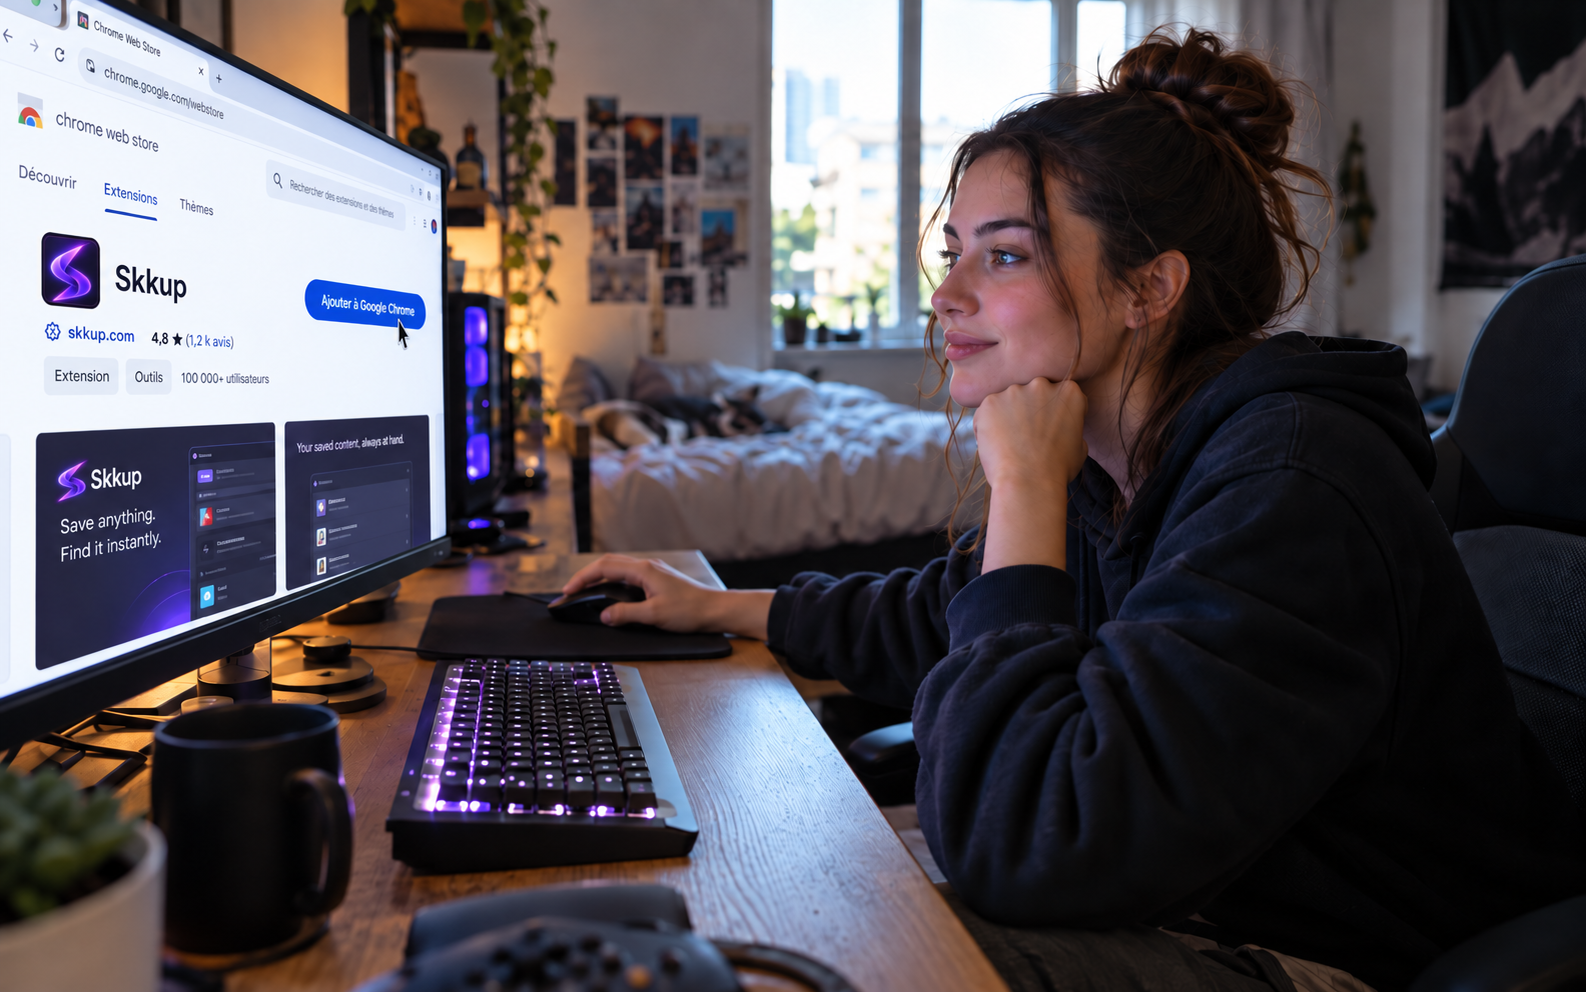
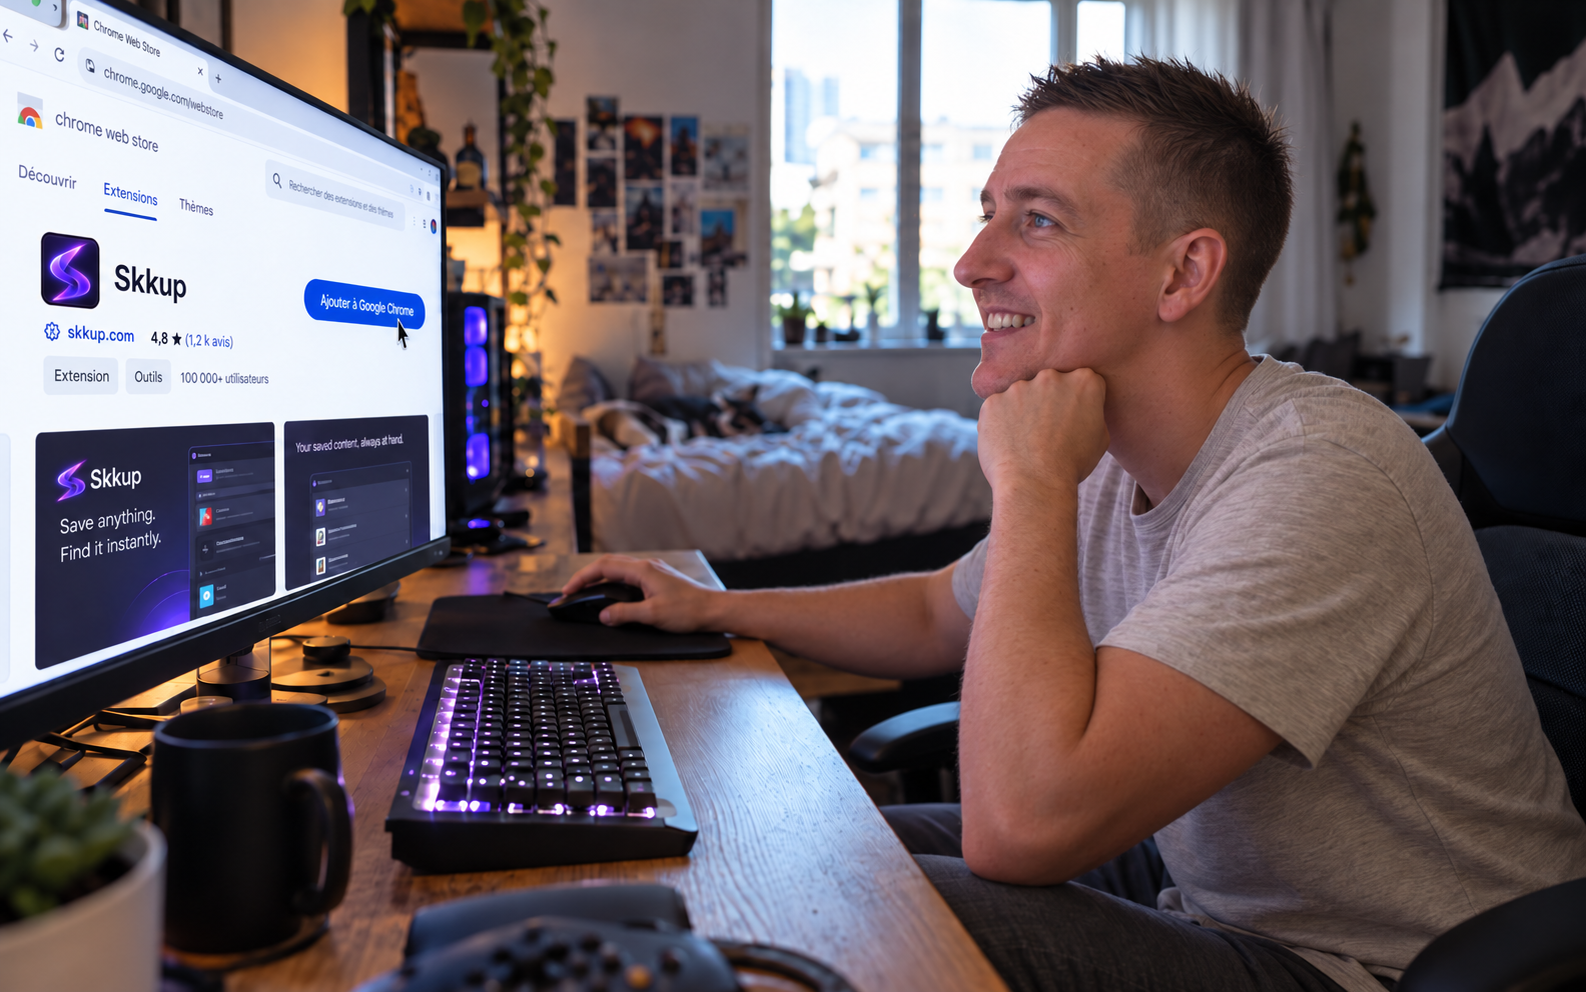
feat(vitrine): replace lifestyle photos with viewer reference

diff --git a/frontend/src/components/i18n/LocalizedHomeSteps.tsx b/frontend/src/components/i18n/LocalizedHomeSteps.tsx
@@ -4,15 +4,30 @@ import Image from "next/image";
 import { traductions, useLanguage } from "./LanguageProvider";
 
 const images = [
-  ["/images/skkup-step-install.png", "Un viewer installe l’extension Skkup sur son ordinateur"],
-  ["/images/skkup-step-watch.png", "Une gameuse regarde le direct d’un streamer depuis son bureau"],
-  ["/images/skkup-step-points-v2.png", "Un viewer accumule des points en regardant un direct"],
-  ["/images/skkup-step-reward.png", "Un gamer découvre un casque et une manette dans un coffret cadeau"],
+  "/images/skkup-step-install.png",
+  "/images/skkup-step-watch.png",
+  "/images/skkup-step-points-v2.png",
+  "/images/skkup-step-reward.png",
 ] as const;
+
+const imageAlts = {
+  fr: [
+    "Un viewer installe l’extension Skkup sur son ordinateur",
+    "Un viewer regarde le direct d’un streamer depuis son bureau",
+    "Un viewer accumule des points en regardant un direct",
+    "Un viewer découvre un casque et une manette dans un coffret cadeau",
+  ],
+  en: [
+    "A viewer installs the Skkup extension on their computer",
+    "A viewer watches a streamer’s live broadcast from their desk",
+    "A viewer earns points by watching a live broadcast",
+    "A viewer discovers a headset and a controller in a gift box",
+  ],
+} as const;
 
 export function LocalizedHomeSteps() {
   const { langue } = useLanguage();
   const t = traductions[langue].home;
   const mentionImage = langue === "en" ? "AI-generated content" : "Contenu généré avec IA";
-  return <section id="fonctionnement" className="mx-auto max-w-6xl px-6 py-20 text-center"><h2 className="skuup-section-title">{t.stepsTitle}</h2><p className="mt-2 text-white/55">{t.stepsSubtitle}</p><div className="mt-10 grid gap-5 md:grid-cols-4">{t.steps.map((step, index) => <article key={step.title} className="skuup-step"><div className="skuup-step-media"><Image src={images[index][0]} alt={images[index][1]} fill sizes="(min-width: 768px) 25vw, 100vw" /><span className="skuup-ai-label">{mentionImage}</span>{index === 2 && <span className="skuup-step-progress" aria-hidden="true"><span>{t.progress}</span><i /></span>}</div><div className="skuup-step-content"><h3>{step.title}</h3><p>{step.description}</p></div></article>)}</div></section>;
+  return <section id="fonctionnement" className="mx-auto max-w-6xl px-6 py-20 text-center"><h2 className="skuup-section-title">{t.stepsTitle}</h2><p className="mt-2 text-white/55">{t.stepsSubtitle}</p><div className="mt-10 grid gap-5 md:grid-cols-4">{t.steps.map((step, index) => <article key={step.title} className="skuup-step"><div className="skuup-step-media"><Image src={images[index]} alt={imageAlts[langue][index]} fill sizes="(min-width: 768px) 25vw, 100vw" /><span className="skuup-ai-label">{mentionImage}</span>{index === 2 && <span className="skuup-step-progress" aria-hidden="true"><span>{t.progress}</span><i /></span>}</div><div className="skuup-step-content"><h3>{step.title}</h3><p>{step.description}</p></div></article>)}</div></section>;
 }

diff --git a/work-items/vitrine-man-replacement/README.md b/work-items/vitrine-man-replacement/README.md
@@ -1,0 +1,16 @@
+# Remplacement des visuels de la vitrine
+
+## Objectif
+
+Remplacer les trois scènes de la vitrine qui représentaient une femme par des scènes équivalentes avec l’homme fourni comme référence, en conservant les cadrages, les environnements, les lumières et le style photo.
+
+## Périmètre
+
+- image de consultation d’un stream
+- image d’installation de l’extension
+- image de découverte d’une récompense
+- textes alternatifs associés
+
+## Contrôles
+
+Les visuels sont inspectés avant intégration. La vitrine est contrôlée par les tests frontend, le typecheck, le lint, le build et les contrôles responsive/accessibilité de la CI.
